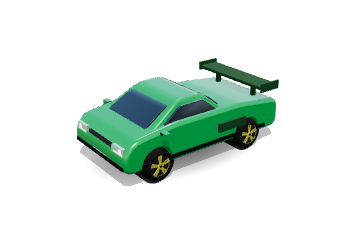
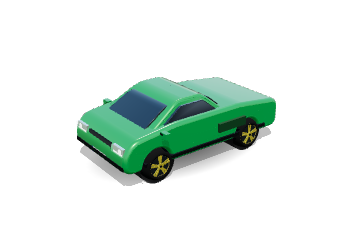
Hill Kicker 0.14.0 : la voiture démarre nue, un accessoire par palier
- assets3d.js : accessoires d'amélioration (moteur : prise d'air → échappements → compresseur → cornets → flammes ; aileron : becquet → aileron GT), posés sur le capot et le coffre de chaque véhicule
- Ailerons et prises d'air de série retirés (Rallye, Supercar, Muscle car), vignettes du garage refaites
- main.js : paliers du lanceur et des gains appliqués à la voiture, message « MOTEUR 3 ! » / « AILERON 2 ! »
- Outil de rendu : paliers moteur et aileron, vue arrière (&v=arriere)

Claude-Session: https://claude.ai/code/session_01J5Ww4yUSbVacGDq1Qp6BkE

Changed region(s): [[0.55, 0.2333, 0.7944, 0.4083]]

diff --git a/src/assets3d.js b/src/assets3d.js
@@ -574,6 +574,8 @@ function buildCar(spec) {
   const blob = new THREE.Mesh(new THREE.PlaneGeometry((maxX - minX) / U + 0.5, W + 0.6 + (spec.track ?? 0) * 2), carMat('blob', () => new THREE.MeshBasicMaterial({ map: canvasTex(64, 64, (c2, Wd, H) => { const gr = c2.createRadialGradient(32, 32, 4, 32, 32, 32); gr.addColorStop(0, 'rgba(0,0,0,0.55)'); gr.addColorStop(1, 'rgba(0,0,0,0)'); c2.fillStyle = gr; c2.fillRect(0, 0, Wd, H); }), transparent: true, depthWrite: false })));
   blob.rotation.x = -Math.PI / 2; blob.position.set(X((minX + maxX) / 2), 0.015, 0); blob.renderOrder = -1; g.add(blob);
   if (spec.extras) spec.extras(g, cx, W, paint);
+  // Accessoires gagnés avec les améliorations : moteur (palier du lanceur) et aileron (palier des gains)
+  if (spec.motorTier > 0 || spec.wingTier > 0) accessories(g, spec, cx, W, X, Y, minX, maxX, bottom, paint);
   // Caisse surélevée (paliers roues / suspensions) : tout monte sauf les roues et l'ombre au sol
   if (bodyLift > 0) for (const o of g.children) if (o !== blob) o.position.y += bodyLift;
   for (const [wh] of wheelsG) g.add(wh);
@@ -596,6 +598,93 @@ function buildCar(spec) {
   applyCarEnv(g);
   return g;
 }
+// ---------- accessoires d'amélioration ----------
+// Hauteur du dessus de la carrosserie (profil, y vers le bas) à l'abscisse px : la plus haute surface du profil
+function topAt(poly, px) {
+  let best = Infinity;
+  for (let i = 0; i < poly.length; i++) {
+    const a = poly[i], b = poly[(i + 1) % poly.length];
+    if ((a[0] - px) * (b[0] - px) > 0 || a[0] === b[0]) continue;
+    const t = (px - a[0]) / (b[0] - a[0]); best = Math.min(best, a[1] + (b[1] - a[1]) * t);
+  }
+  return best;
+}
+const accDark = () => carMat('accDark', () => withEnv(new THREE.MeshStandardMaterial({ color: 0x1A1D22, roughness: 0.4, metalness: 0.35 }), 1));
+const accRed = () => carMat('accRed', () => withEnv(new THREE.MeshStandardMaterial({ color: 0xE5383B, roughness: 0.35, metalness: 0.2 }), 1));
+const accFlame = () => carMat('accFlame', () => new THREE.MeshStandardMaterial({ color: 0xFFB020, emissive: 0xFF6A00, emissiveIntensity: 1.6, roughness: 0.5 }));
+const accFlame2 = () => carMat('accFlame2', () => new THREE.MeshStandardMaterial({ color: 0xFFF2B0, emissive: 0xFFE14D, emissiveIntensity: 1.8, roughness: 0.5 }));
+function box(w, h, d, m) { return new THREE.Mesh(new THREE.BoxGeometry(w, h, d), m); }
+
+function accessories(g, spec, cx, W, X, Y, minX, maxX, bottom, paint) {
+  const len = maxX - minX, m = spec.motorTier || 0, w = spec.noWing ? 0 : (spec.wingTier || 0);
+  const dark = accDark(), chrome = chromeM(), red = accRed();
+
+  // ----- Moteur : prise d'air → échappements → compresseur → cornets chromés → flammes -----
+  if (m > 0 && !spec.noHood) {
+    const cabFront = spec.cabin ? Math.max(...spec.cabin.map(p => p[0])) : minX + 0.6 * len;
+    const hxp = spec.hood?.[0] ?? (cabFront + maxX) / 2;
+    const hyp = spec.hood?.[1] ?? topAt(spec.lower, hxp);
+    const tilt = spec.hood?.[1] !== undefined ? 0 : Math.atan2(topAt(spec.lower, hxp - 3) - topAt(spec.lower, hxp + 3), 6);
+    const eng = new THREE.Group(); eng.position.set(X(hxp), Y(hyp), 0); eng.rotation.z = tilt; g.add(eng);
+    if (m <= 2) {
+      // Prise d'air de capot (plus grande au palier 2)
+      const k = m === 1 ? 1 : 1.35;
+      const sc = box(0.55 * k, 0.12 * k, 0.46 * k, paint); sc.position.y = 0.05 * k; eng.add(sc);
+      const mouth = box(0.04, 0.08 * k, 0.36 * k, dark); mouth.position.set(0.28 * k, 0.07 * k, 0); eng.add(mouth);
+    } else {
+      // Compresseur qui sort du capot, de plus en plus gros
+      const k = [1, 1.2, 1.4][m - 3];
+      const base = box(0.62 * k, 0.12 * k, 0.5 * k, chrome); base.position.y = 0.06 * k; eng.add(base);
+      const blower = box(0.5 * k, 0.24 * k, 0.4 * k, chrome); blower.position.y = 0.24 * k; eng.add(blower);
+      for (let i = -2; i <= 2; i++) { const rib = box(0.03, 0.25 * k, 0.42 * k, dark); rib.position.set(i * 0.09 * k, 0.24 * k, 0); eng.add(rib); }
+      const belt = box(0.08 * k, 0.3 * k, 0.06, dark); belt.position.set(0.29 * k, 0.14 * k, 0.12 * k); eng.add(belt);
+      if (m === 3) {
+        const scoop = box(0.4 * k, 0.14 * k, 0.34 * k, red); scoop.position.y = 0.43 * k; eng.add(scoop);
+        const sm = box(0.04, 0.1 * k, 0.28 * k, dark); sm.position.set(0.2 * k, 0.43 * k, 0); eng.add(sm);
+      } else {
+        // Cornets d'admission chromés
+        for (const dx of [-0.1, 0.1]) for (const dz of [-0.09, 0.09]) {
+          const st = new THREE.Mesh(new THREE.CylinderGeometry(0.07 * k, 0.05 * k, 0.2 * k, 12, 1, true), chrome);
+          st.position.set(dx * k, 0.46 * k, dz * k); eng.add(st);
+        }
+        const plate = box(0.42 * k, 0.03, 0.34 * k, red); plate.position.y = 0.37 * k; eng.add(plate);
+      }
+    }
+  }
+  // Échappements chromés à l'arrière dès le palier 2, flammes au palier 5
+  if (m >= 2 && !spec.noExhaust) {
+    const n = m >= 4 ? 2 : 1, r = m >= 4 ? 0.07 : 0.055, ey = Y(bottom) + 0.12;
+    for (const s of [-1, 1]) for (let i = 0; i < n; i++) {
+      const tip = new THREE.Mesh(new THREE.CylinderGeometry(r, r * 0.9, 0.34, 12), chrome);
+      tip.rotation.z = Math.PI / 2; tip.position.set(X(minX) - 0.06, ey, s * (W * 0.28 + i * 0.17)); g.add(tip);
+      const hole = new THREE.Mesh(new THREE.CircleGeometry(r * 0.75, 12), dark); hole.rotation.y = -Math.PI / 2; hole.position.set(X(minX) - 0.235, ey, tip.position.z); g.add(hole);
+      if (m >= 5) {
+        const f = new THREE.Mesh(new THREE.ConeGeometry(r * 1.1, 0.5, 10), accFlame()); f.rotation.z = Math.PI / 2; f.position.set(X(minX) - 0.5, ey, tip.position.z); g.add(f);
+        const f2 = new THREE.Mesh(new THREE.ConeGeometry(r * 0.6, 0.3, 10), accFlame2()); f2.rotation.z = Math.PI / 2; f2.position.set(X(minX) - 0.4, ey, tip.position.z); g.add(f2);
+      }
+    }
+  }
+
+  // ----- Aileron : becquet → aileron bas → sur montants → grand aileron → aileron GT géant -----
+  if (w > 0) {
+    const rxp = minX + Math.min(9, 0.12 * len), ry = Y(topAt(spec.lower, rxp)), rx = X(rxp);
+    const wing = new THREE.Group(); wing.position.set(rx, ry, 0); g.add(wing);
+    if (w === 1) {
+      const lip = box(0.28, 0.09, W * 0.92, dark); lip.position.set(-0.02, 0.06, 0); lip.rotation.z = -0.3; wing.add(lip);
+    } else {
+      const H = [0, 0, 0.14, 0.3, 0.45, 0.62][w], D = [0, 0, 0.36, 0.46, 0.56, 0.68][w];
+      const span = W * [0, 0, 0.92, 1, 1.06, 1.14][w], T = 0.055 + 0.006 * w;
+      const blade = box(D, T, span, w >= 5 ? paint : dark); blade.position.y = H + 0.04; blade.rotation.z = -0.1; wing.add(blade);
+      for (const s of [-1, 1]) { const post = box(0.1, H + 0.05, 0.05, dark); post.position.set(0.03, (H + 0.04) / 2, s * span * 0.3); wing.add(post); }
+      if (w >= 3) for (const s of [-1, 1]) {
+        const ep = box(D * 1.1, 0.16 + 0.04 * w, 0.03, w >= 5 ? red : dark); ep.position.set(0, H + 0.06, s * (span / 2 + 0.015)); wing.add(ep);
+      }
+      if (w >= 4) { const flap = box(D * 0.4, T * 0.8, span * 0.98, dark); flap.position.set(-D * 0.45, H + 0.13, 0); flap.rotation.z = -0.45; wing.add(flap); }
+      if (w >= 5) { const gurney = box(0.03, 0.05, span * 0.98, red); gurney.position.set(-D * 0.62, H + 0.2, 0); wing.add(gurney); }
+    }
+  }
+}
+
 const at = (cx, x, y) => [(x - cx) / U, (GY - y) / U];
 
 export const CARS = {
@@ -616,7 +705,7 @@ export const CARS = {
     lower: [[6, 46], [6, 27], [80, 26], [92, 29], [95, 35], [95, 46]],
     cabin: [[6, 27], [9, 12], [64, 12], [78, 26]], wheels: [[22, 7.5], [78, 7.5]], pillarX: 42, lightY: 33,
     extras: (g, cx, W) => { for (const s of [-1, 1]) { const r = new THREE.Mesh(new THREE.BoxGeometry(2.0, 0.05, 0.05), mat(0x2A2F38)); const [x, y] = at(cx, 34, 10.2); r.position.set(x, y, s * 0.62); g.add(r); } } },
-  camionnette: { name: 'Camionnette', color: 0xF4F6FA, W: 1.95,
+  camionnette: { name: 'Camionnette', color: 0xF4F6FA, W: 1.95, hood: [75, 18],
     lower: [[6, 46], [6, 8], [70, 8], [70, 28], [93, 30], [94, 46]],
     cabin: [[70, 29], [70, 18], [81, 18], [92, 30]], roof: true, pillar: false, wheels: [[22, 8], [80, 8]], lightY: 36,
     extras: (g, cx, W) => { const s = new THREE.Mesh(new THREE.BoxGeometry(64 / 25, 0.2, W + 0.02), mat(0xFF8A3D)); const [x, y] = at(cx, 38, 30); s.position.set(x, y, 0); g.add(s); } },
@@ -646,7 +735,7 @@ export const CARS = {
   retro: { name: 'Rétro 60', color: 0x2BB3A3, W: 1.65, rim: 0xF4F6FA,
     lower: [[8, 46], [8, 33], [14, 28], [88, 28], [94, 34], [94, 46]],
     cabin: [[22, 29], [28, 17], [40, 10], [60, 9], [72, 14], [82, 29]], roofT: 3, wheels: [[26, 7.5], [76, 7.5]], lightY: 32 },
-  campingcar: { name: 'Camping-car', color: 0xF4F6FA, W: 2.1,
+  campingcar: { name: 'Camping-car', color: 0xF4F6FA, W: 2.1, hood: [86, 6],
     lower: [[4, 46], [4, 6], [93, 6], [93, 16], [80, 16], [80, 31], [95, 31], [95, 46]],
     cabin: [[80, 31], [80, 16], [86, 16], [95, 31]], roof: false, pillar: false, wheels: [[22, 8], [82, 8]], lightY: 37,
     extras: (g, cx, W) => {
@@ -670,7 +759,7 @@ export const CARS = {
       const r = new THREE.Mesh(new THREE.BoxGeometry(0.3, 0.16, 0.5), mat(0xFF2D2D, { e: 0xFF2D2D, ei: 1 })); r.position.set(x, y, -0.27); g.add(r);
       const b = new THREE.Mesh(new THREE.BoxGeometry(0.3, 0.16, 0.5), mat(0x2D7BFF, { e: 0x2D7BFF, ei: 1 })); b.position.set(x, y, 0.27); g.add(b);
     } },
-  ambulance: { name: 'Ambulance', color: 0xF4F6FA, W: 2.0,
+  ambulance: { name: 'Ambulance', color: 0xF4F6FA, W: 2.0, hood: [62, 10],
     lower: [[6, 46], [6, 10], [68, 10], [68, 30], [92, 31], [93, 46]],
     cabin: [[68, 30], [68, 20], [80, 20], [91, 31]], pillar: false, wheels: [[22, 8], [80, 8]], lightY: 37,
     extras: (g, cx, W) => {
@@ -682,19 +771,11 @@ export const CARS = {
   muscle: { sport: true, name: 'Muscle car', color: 0x6A2C91, W: 1.85, ww: 0.44,
     lower: [[4, 44], [4, 31], [14, 28], [40, 27], [78, 27], [94, 29], [97, 34], [97, 44]],
     cabin: [[40, 27], [49, 16], [63, 16], [76, 27]], wheels: [[22, 8.5], [80, 7.5]], lightY: 32, pillar: false,
-    extras: (g, cx, W, paint) => {
-      const sc = new THREE.Mesh(new THREE.BoxGeometry(0.4, 0.14, 0.45), mat(0x2B1238)); const [sx, sy] = at(cx, 85, 26); sc.position.set(sx, sy, 0); g.add(sc);
-    } },
+  },
   rallye: { sport: true, name: 'Rallye', color: 0x1E6FD9, W: 1.75, rim: 0xFFD23F, ww: 0.42,
     lower: [[8, 46], [8, 26], [32, 24], [84, 25], [91, 28], [93, 34], [93, 46]],
     cabin: [[32, 24], [43, 11], [70, 11], [80, 25]], wheels: [[24, 7.5], [76, 7.5]], lightY: 31,
     extras: (g, cx, W) => {
-      // Aileron posé sur le coffre : deux montants relient la lame à la carrosserie
-      const [x] = at(cx, 12, 0), yTrunk = (53 - 25.6) / 25 + 0.04, y = yTrunk + 0.3;
-      const wing = new THREE.Mesh(new THREE.BoxGeometry(0.5, 0.07, W), mat(0x14213D)); wing.position.set(x, y, 0); g.add(wing);
-      for (const s of [-0.5, 0.5]) { const p = new THREE.Mesh(new THREE.BoxGeometry(0.12, y - yTrunk + 0.06, 0.06), mat(0x14213D)); p.position.set(x + 0.04, (y + yTrunk) / 2 - 0.02, s); g.add(p); }
-      for (const s of [-1, 1]) { const ep = new THREE.Mesh(new THREE.BoxGeometry(0.55, 0.2, 0.03), mat(0x14213D)); ep.position.set(x, y + 0.02, s * (W / 2 + 0.015)); g.add(ep); }
-      const sc = new THREE.Mesh(new THREE.BoxGeometry(0.4, 0.12, 0.3), mat(0x14213D)); const [sx, sy] = at(cx, 57, 9.8); sc.position.set(sx, sy, 0); g.add(sc);
       const num = canvasTex(256, 64, (c, Wd, H) => { c.fillStyle = '#FFD23F'; c.fillRect(0, 0, Wd, H); c.fillStyle = '#fff'; c.beginPath(); c.arc(128, 32, 28, 0, 7); c.fill(); c.fillStyle = '#14213D'; c.font = 'bold 40px sans-serif'; c.textAlign = 'center'; c.textBaseline = 'middle'; c.fillText('7', 128, 34); });
       for (const sg of [-1, 1]) { const b = new THREE.Mesh(new THREE.PlaneGeometry(3.3, 0.36), mat(0xffffff, { map: num })); const [bx, by] = at(cx, 50, 33); b.position.set(bx, by, sg * (W / 2 + 0.012)); if (sg < 0) b.rotation.y = Math.PI; g.add(b); }
     } },
@@ -705,7 +786,7 @@ export const CARS = {
       for (const px of [24, 76]) for (const s of [-1, 1]) { const sh = new THREE.Mesh(new THREE.CylinderGeometry(0.08, 0.08, 0.8, 8), mat(0xFFC21A, { m: 0.4 })); const [x, y] = at(cx, px, 26); sh.position.set(x, y, s * 0.55); g.add(sh); }
       const ax = new THREE.Mesh(new THREE.BoxGeometry(2.5, 0.12, 0.2), mat(0x2A2F38)); const [x, y] = at(cx, 50, 30); ax.position.set(x, y + 0.2, 0); g.add(ax);
     } },
-  hotrod: { name: 'Hot rod', color: 0x1E2229, W: 1.6,
+  hotrod: { name: 'Hot rod', color: 0x1E2229, W: 1.6, hood: [68, 16.4],
     lower: [[6, 44], [6, 26], [22, 24], [48, 24], [54, 27], [92, 30], [95, 36], [95, 44]],
     cabin: [[22, 24], [27, 12], [44, 12], [48, 24]], pillar: false, wheels: [[20, 10], [86, 6]], lightY: 36, tailY: 32,
     extras: (g, cx, W) => {
@@ -722,14 +803,9 @@ export const CARS = {
     lower: [[4, 44], [4, 32], [30, 29], [70, 29], [92, 32], [96, 37], [96, 44]],
     cabin: [[38, 30], [50, 20], [64, 20], [82, 31]], roofT: 1.8, pillar: false, wheels: [[24, 7.5], [80, 7.5]], lightY: 35,
     extras: (g, cx, W) => {
-      // Aileron posé sur le capot arrière : montants jusqu'à la carrosserie
-      const [x] = at(cx, 11, 0), yTrunk = (53 - 31.2) / 25 + 0.04, y = yTrunk + 0.32;
-      const wing = new THREE.Mesh(new THREE.BoxGeometry(0.45, 0.06, W), mat(0x0B3B1C)); wing.position.set(x, y, 0); g.add(wing);
-      for (const s of [-0.55, 0.55]) { const p = new THREE.Mesh(new THREE.BoxGeometry(0.1, y - yTrunk + 0.06, 0.06), mat(0x0B3B1C)); p.position.set(x + 0.04, (y + yTrunk) / 2 - 0.02, s); g.add(p); }
-      for (const s of [-1, 1]) { const ep = new THREE.Mesh(new THREE.BoxGeometry(0.5, 0.18, 0.03), mat(0x0B3B1C)); ep.position.set(x, y + 0.02, s * (W / 2 + 0.015)); g.add(ep); }
       for (const sg of [-1, 1]) { const intake = new THREE.Mesh(new THREE.BoxGeometry(0.7, 0.18, 0.06), mat(0x0B3B1C)); const [ix, iy] = at(cx, 36, 36); intake.position.set(ix, iy, sg * (W / 2 + 0.01)); g.add(intake); }
     } },
-  f1: { name: 'Formule 1', color: 0xE10600, W: 1.0, bumpers: false, ww: 0.6, track: 0.45,
+  f1: { name: 'Formule 1', color: 0xE10600, W: 1.0, bumpers: false, noHood: true, noWing: true, ww: 0.6, track: 0.45,
     lower: [[10, 40], [14, 30], [50, 28], [58, 26], [66, 29], [98, 35], [98, 38], [60, 40]],
     wheels: [[22, 10], [80, 9]], lightY: 37,
     extras: (g, cx, W) => {
@@ -739,7 +815,7 @@ export const CARS = {
       const sp = new THREE.Mesh(new THREE.BoxGeometry(1.1, 0.35, 1.5), mat(0xE10600)); const [sx, sy] = at(cx, 40, 34); sp.position.set(sx, sy, 0); g.add(sp);
       const helm = new THREE.Mesh(new THREE.SphereGeometry(0.2, 12, 10), mat(0xFFD23F, { r: 0.2 })); const [hx, hy] = at(cx, 58, 24); helm.position.set(hx, hy, 0); g.add(helm);
     } },
-  retrofutur: { sport: true, name: 'Rétro-futur', color: 0xC0C7D1, W: 1.8, rim: 0xE5383B,
+  retrofutur: { sport: true, name: 'Rétro-futur', color: 0xC0C7D1, W: 1.8, rim: 0xE5383B, hood: [87],
     lower: [[4, 46], [4, 31], [30, 28], [70, 28], [92, 32], [96, 38], [96, 46]],
     wheels: [[24, 6.5], [76, 6.5]], lightY: 36,
     extras: (g, cx, W) => {
@@ -747,7 +823,7 @@ export const CARS = {
       for (const s of [-1, 1]) { const sh = new THREE.Shape(); sh.moveTo(0, 0); sh.lineTo(0.9, 0); sh.lineTo(0.1, 0.9); sh.closePath(); const f = new THREE.Mesh(new THREE.ExtrudeGeometry(sh, { depth: 0.08, bevelEnabled: false }), mat(0xE5383B)); const [fx, fy] = at(cx, 4, 30); f.position.set(fx, fy - 0.04, s * 0.7 - 0.04); g.add(f); }
       for (const s of [-1, 1]) { const st = new THREE.Mesh(new THREE.BoxGeometry(3.7, 0.06, 0.02), mat(0xE5383B)); const [sx, sy] = at(cx, 50, 36); st.position.set(sx, sy, s * (W / 2 + 0.03)); g.add(st); }
     } },
-  fusee: { name: 'Fusée', color: 0xF4F6FA, W: 1.2, bumpers: false, wheels: [[30, 6], [66, 6]], track: 0.25,
+  fusee: { name: 'Fusée', color: 0xF4F6FA, W: 1.2, bumpers: false, noHood: true, noWing: true, noExhaust: true, wheels: [[30, 6], [66, 6]], track: 0.25,
     lower: [[12, 44], [12, 40], [60, 40], [60, 44]], lightY: 42,
     extras: (g, cx, W) => {
       const body = new THREE.Mesh(new THREE.CylinderGeometry(0.42, 0.42, 2.6, 16), mat(0xF4F6FA, { r: 0.3 })); body.rotation.z = Math.PI / 2; const [x, y] = at(cx, 44, 34); body.position.set(x, y, 0); g.add(body);
@@ -765,7 +841,7 @@ export const TIER_STEP = 5;
 export const tierOf = (n) => Math.min(5, Math.floor((n || 0) / TIER_STEP));
 const RIM_TIERS = [null, 0x2B2F36, 0xFFD23F, 0xE5383B, 0x34E0FF, 0xF4F6FA];
 export function car(key, opts = {}) {
-  const base = CARS[key], tp = tierOf(opts.tiers?.pneus), ts = tierOf(opts.tiers?.susp);
+  const base = CARS[key], tp = tierOf(opts.tiers?.pneus), ts = tierOf(opts.tiers?.susp), tm = tierOf(opts.tiers?.moteur), tw = tierOf(opts.tiers?.aileron);
   const spec = { ...base };
   if (tp > 0) {
     // Pneus : roues plus grandes et plus larges, jantes d'une nouvelle couleur, crampons tout-terrain au palier 4
@@ -773,6 +849,7 @@ export function car(key, opts = {}) {
     if (tp >= 4) spec.wstyleTier = 'tread';
   }
   if (ts > 0) { spec.suspLift = 0.07 * ts; spec.suspTier = ts; } // Suspensions : caisse relevée, ressorts visibles
+  spec.motorTier = tm; spec.wingTier = tw; // Moteur (lanceur) et aileron (gains) : rien au départ, un accessoire par palier
   const g = buildCar(spec);
   applyCarEnv(g);
   // car faces +x; rotate so it faces -z (forward)

diff --git a/src/game/main.js b/src/game/main.js
@@ -26,6 +26,8 @@ addEventListener('pointerdown', () => music.start()); addEventListener('keydown'
 const fmt = (n) => Math.round(n).toLocaleString('fr-FR').replace(/ /g, ' ');
 const mmss = (ms) => { const s = Math.ceil(ms / 1000); return `${String(Math.floor(s / 60)).padStart(2, '0')}:${String(s % 60).padStart(2, '0')}`; };
 const ICONS = { pneus: 'i_pneus', susp: 'i_susp', lanceur: 'i_lanceur', mult: 'i_multi' };
+// Accessoire qui apparaît ou grandit à chaque palier (toutes les 5 améliorations)
+const TIER_NAMES = { pneus: 'ROUES', susp: 'SUSPENSION', lanceur: 'MOTEUR', mult: 'AILERON' };
 
 // ---------- rendu ----------
 const host = $('gl');
@@ -127,7 +129,7 @@ function buildCarMesh() {
   if (carMesh) scene.remove(carMesh);
   const key = eco.s.car;
   const up = eco.s.up;
-  carMesh = A.car(key, { tiers: { pneus: up.pneus, susp: up.susp } }); // paliers visuels toutes les 5 améliorations
+  carMesh = A.car(key, { tiers: { pneus: up.pneus, susp: up.susp, moteur: up.lanceur, aileron: up.mult } }); // paliers visuels toutes les 5 améliorations : la voiture démarre nue
   if (world) world.setLauncherTier(A.tierOf(up.lanceur));
   carMesh.rotation.order = 'YXZ';
   carHeight = new THREE.Box3().setFromObject(carMesh).getSize(new THREE.Vector3()).y;
@@ -180,10 +182,10 @@ function refreshHome() {
     b.addEventListener('click', () => {
       if (!eco.buy(u.key)) return;
       // Nouveau palier visuel (toutes les 5 améliorations) : fanfare et carte qui s'illumine
-      const tierUp = u.key !== 'mult' && s.up[u.key] % A.TIER_STEP === 0 && A.tierOf(s.up[u.key]) <= 5;
+      const tierUp = s.up[u.key] % A.TIER_STEP === 0 && A.tierOf(s.up[u.key]) <= 5 && s.up[u.key] <= 5 * A.TIER_STEP;
       tierUp ? sfx.win() : sfx.buy();
       buildCarMesh(); placeCarOnLauncher(); refreshHome();
-      if (tierUp) { const c = $('cards').children[UPGRADES.indexOf(u)]; if (c) { c.classList.add('tierup'); c.insertAdjacentHTML('beforeend', `<span class="tiertag">PALIER ${A.tierOf(s.up[u.key])} !</span>`); } }
+      if (tierUp) { const c = $('cards').children[UPGRADES.indexOf(u)]; if (c) { c.classList.add('tierup'); c.insertAdjacentHTML('beforeend', `<span class="tiertag">${TIER_NAMES[u.key]} ${A.tierOf(s.up[u.key])} !</span>`); } }
     });
     cards.appendChild(el);
   }

diff --git a/tools/render/scenes.js b/tools/render/scenes.js
@@ -184,10 +184,11 @@ function tierShot(key, t) {
   const { renderer, scene, camera, sun } = L.setup(W, H, { alpha: true, fov: 30, hemi: 1.4, sun: 2.2, exposure: 1.1 });
   const n = t * L.TIER_STEP;
   const ln = L.launcher(5.6, 3.4, undefined, t); scene.add(ln);
-  const c = L.car(key, { tiers: { pneus: n, susp: n } }); c.position.set(0, 0.92 - 0.3, -0.2); scene.add(c);
+  const c = L.car(key, { tiers: { pneus: n, susp: n, moteur: n, aileron: n } }); c.position.set(0, 0.92 - 0.3, -0.2); scene.add(c);
   const sh = new THREE.Mesh(new THREE.CircleGeometry(8, 40), new THREE.ShadowMaterial({ opacity: 0.25 })); sh.rotation.x = -Math.PI / 2; sh.receiveShadow = true; scene.add(sh);
   const ctr = new THREE.Vector3(0, 1.1, 0);
-  camera.position.set(-9.5, 6.2, -9.5); camera.lookAt(ctr);
+  // &v=arriere : vue de trois quarts arrière (aileron, échappements)
+  if (q.get('v') === 'arriere') camera.position.set(-9.5, 6.2, 9.5); else camera.position.set(-9.5, 6.2, -9.5); camera.lookAt(ctr);
   sun.position.set(-6, 14, -4); sun.target.position.copy(ctr);
   sun.shadow.camera.left = -8; sun.shadow.camera.right = 8; sun.shadow.camera.top = 8; sun.shadow.camera.bottom = -8; sun.shadow.camera.updateProjectionMatrix();
   renderer.render(scene, camera);

diff --git a/src/game/version.js b/src/game/version.js
@@ -1,2 +1,2 @@
 // Numéro de version affiché sur l'écran d'accueil (à garder aligné avec package.json)
-export const VERSION = '0.13.3';
+export const VERSION = '0.14.0';

diff --git a/docs/release-notes.md b/docs/release-notes.md
@@ -1,19 +1,12 @@
-## Hill Kicker v0.13.3
+## Hill Kicker v0.14.0
 
 Télécharge l'APK ci-dessous et ouvre-le : il s'installe par-dessus la version précédente, ta progression est conservée.
 
 ## Nouveautés
-- **Direction plus naturelle** : quand on relâche la direction, la glisse latérale s'arrête sur place. La voiture ne revient plus vers le centre de la piste.
-- **Physique à pas fixe** : la trajectoire est la même sur tous les téléphones, quel que soit le nombre d'images par seconde.
-- **Retour de tension au lancer** : une légère vibration au seuil de charge, et une plus marquée à pleine charge.
-- **Terrain plus varié** : la piste alterne désormais des descentes raides qui font accélérer, des montées qui freinent et des replats de terrain lourd (affichés avec le nom de la zone). La pente moyenne reste la même : seul le rythme change. Chaque monde garde sa propre répartition.
-- **Améliorations avec compromis** : un lanceur plus puissant fait glisser davantage dans les virages ; des suspensions plus souples rendent la direction moins vive.
-- **Multiplicateur moins bradé** : son prix ne monte plus de façon linéaire mais de 25 % à chaque palier, comme les autres améliorations ; il ne devient plus l'achat le moins cher en fin de niveau.
-- **Moins de revenus passifs** : un coffre par heure (au lieu de toutes les 10 min), contenant une amélioration la moins chère et 100 monnaies bleues. Une gemme toutes les 3 heures (au lieu d'une par heure). Chaque booster coûte une gemme de plus que le précédent.
-- **Difficulté qui augmente** : virages plus serrés et descentes plus raides à mesure que les niveaux montent.
-- **Gain en direct** : pendant la course, un indicateur affiche le gain actuel (distance × multiplicateur + pièces) et le multiplicateur.
-- **Sensation de vitesse** : la vitesse affichée est la vitesse réelle ; à partir de 70 km/h, des traits de vitesse apparaissent autour de l'écran.
-- **Caméra plus basse et plus proche** : les pentes se lisent mieux dans la trajectoire.
-- **Direction plus douce** : le braquage léger répond moins brusquement, la voiture tourne moins sur elle-même, et l'angle de vue s'élargit à grande vitesse.
-- **Temps en l'air récompensé** : un saut de plus de 0,5 s rapporte des pièces bonus.
-- **Décor qui change** : les thèmes de décor alternent tous les 450 m le long de la piste.
+- **La voiture démarre nue** à chaque niveau : plus d'aileron ni de prise d'air de série (Rallye, Supercar, Muscle car).
+- **Un accessoire par palier**, toutes les 5 améliorations :
+  - **Lanceur → moteur** : prise d'air sur le capot, puis échappements chromés, compresseur, cornets d'admission chromés et, au dernier palier, flammes aux échappements.
+  - **Gains → aileron** : becquet, puis aileron bas, aileron sur montants, grand aileron à volet et aileron GT géant.
+  - **Pneus** et **suspensions** : roues plus grandes et suspensions relevées, comme avant.
+- Le message de palier indique l'accessoire gagné (« MOTEUR 3 ! », « AILERON 2 ! »…), y compris pour les gains.
+- Les camionnettes, le camping-car et l'ambulance portent leur moteur sur le toit de la cabine ; la Formule 1 et la Fusée gardent leurs propres ailerons.

diff --git a/docs/GDD.md b/docs/GDD.md
@@ -83,14 +83,14 @@ La piste est vue de derrière la voiture. Elle est large (4 à 5 voitures de fro
 
 ## Améliorations et visuels
 
-Quatre améliorations, achetées en monnaie jaune. Chaque palier change visiblement la voiture ou le lanceur.
+Quatre améliorations, achetées en monnaie jaune. Un palier toutes les 5 améliorations (5 paliers au maximum) : c'est là qu'un accessoire apparaît ou s'améliore. Chaque niveau commence avec une voiture nue, sans aileron ni prise d'air.
 
 | Amélioration | Effet | Visuel par palier |
 | --- | --- | --- |
 | Pneus | Meilleure adhérence : moins de patinage au lancement, moins de friction en course | Pneus plus larges, jantes sport, puis pneus à crampons |
 | Suspensions | Absorbent les bosses : moins de vitesse perdue sur le relief accidenté | Caisse surélevée, amortisseurs apparents, puis long débattement |
-| Lanceur | Vitesse de départ plus élevée à pourcentage égal | Tapis plus long, moteur plus gros, flammes ou néons |
-| Multiplicateur de gains | Multiplie la distance pour calculer le gain | Peinture brillante, puis chromes, puis finitions dorées |
+| Lanceur | Vitesse de départ plus élevée à pourcentage égal | Lanceur plus gros ; sur la voiture : prise d'air (1), plus grande avec échappements chromés (2), compresseur (3), compresseur et cornets chromés (4), plus gros avec doubles échappements et flammes (5) |
+| Multiplicateur de gains | Multiplie la distance pour calculer le gain | Aileron : becquet (1), aileron bas (2), sur montants avec dérives (3), grand aileron à volet (4), aileron GT géant couleur carrosserie (5) |
 
 **Coûts par palier** (monnaie jaune) : pas de nombre de paliers fixe, on améliore autant que nécessaire pour atteindre la ligne d'arrivée. Coût du palier n = base × 1,3^(n−1), arrondi à 5. Coûts identiques à chaque niveau, puisque tout repart de zéro.
 
